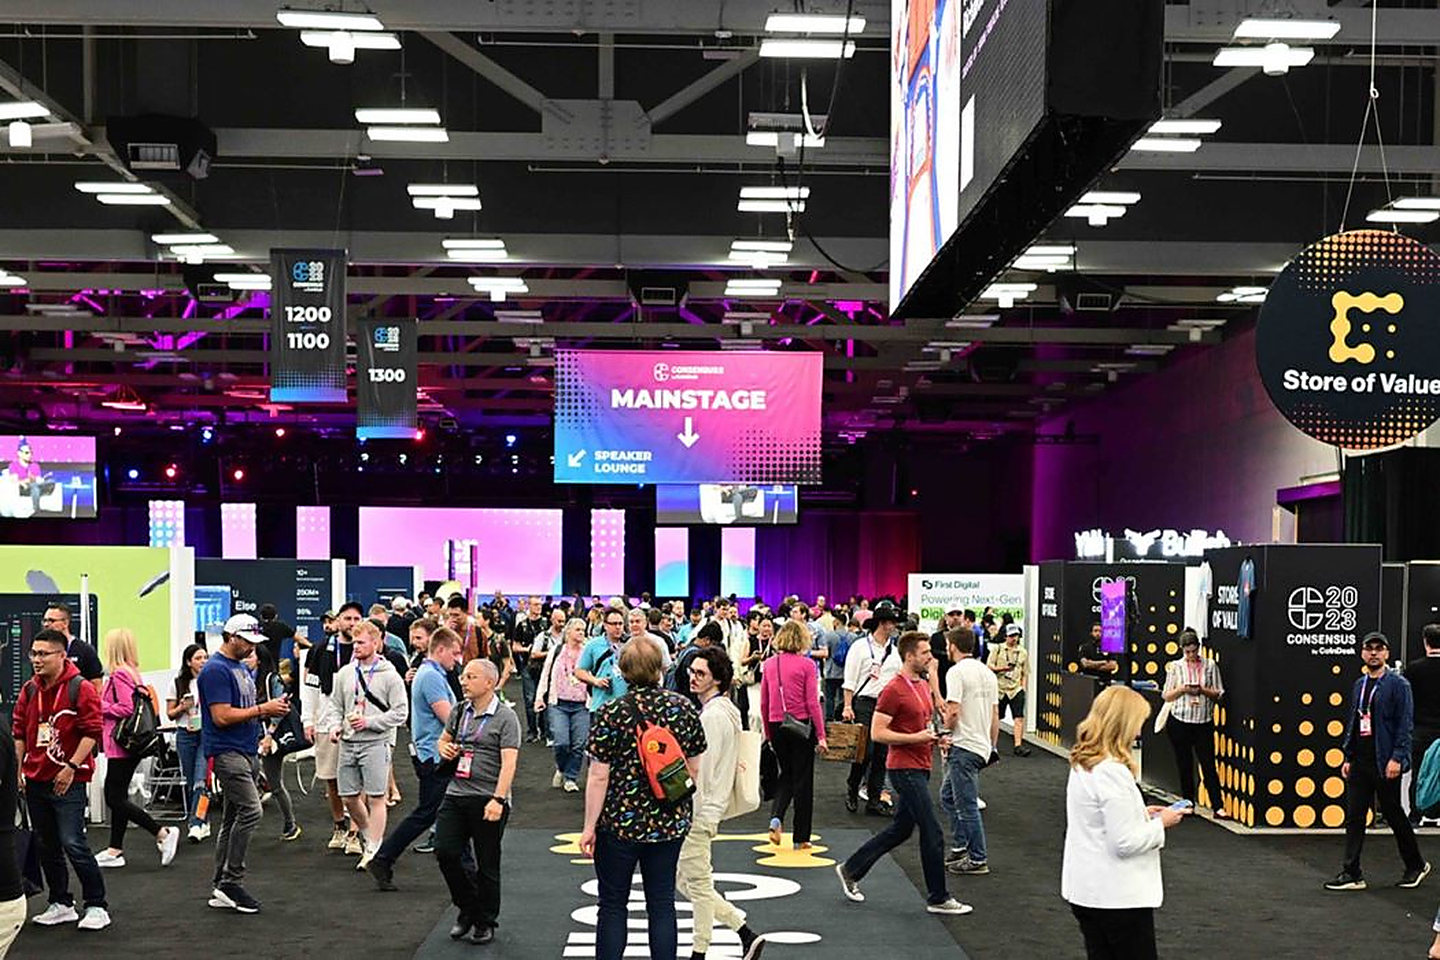
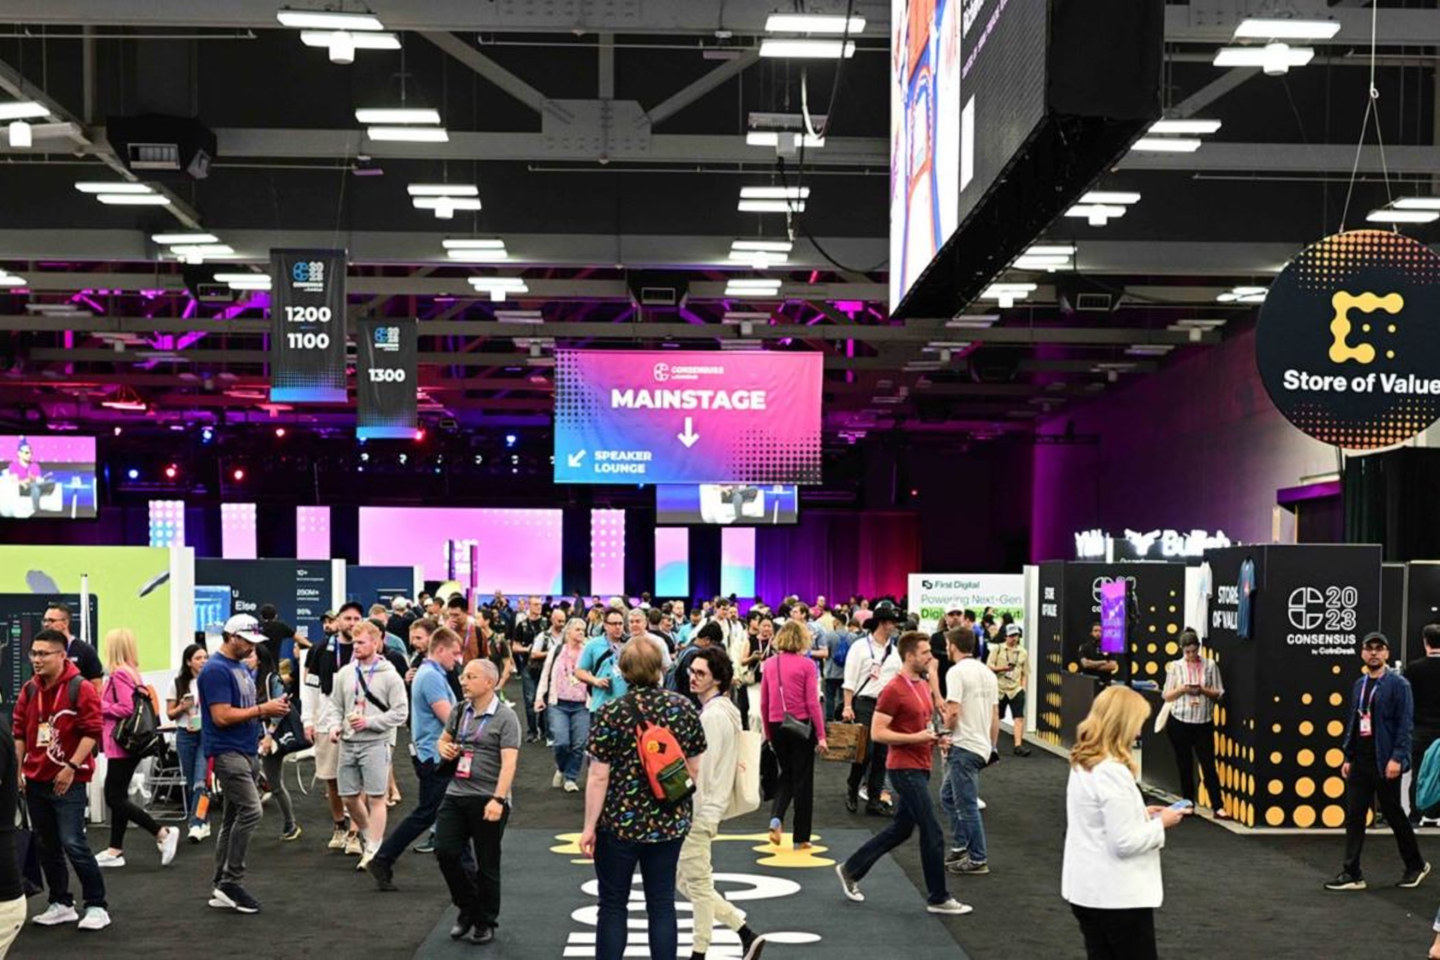
Eventos: la foto se reconstruye con EDSR y vuelve a pantalla completa
Prueba objetiva antes de elegir metodo: se reduce el original a la mitad, se
vuelve a ampliar con siete metodos y se compara cada resultado contra el
original verdadero.

  red neuronal EDSR                     PSNR 29.56  SSIM 0.9418
  lanczos                                    29.23       0.9363
  red neuronal LapSRN                        28.44       0.9249
  red neuronal ESPCN                         28.04       0.9225
  red neuronal FSRCNN                        28.12       0.9210
  por pasos + realce (lo que habia)          26.38       0.9158
  bilineal (lo que hacia el navegador)       26.71       0.9034

El metodo anterior salia PEOR que lanczos a secas. Se habia validado con una
metrica de definicion de borde, que subia porque el realce marca bordes, no
porque la imagen se pareciera mas al original. Metrica equivocada.

Ahora el master se reconstruye una vez con EDSR x4 (1050x700 -> 4200x2800,
por baldosas con solape) y los archivos servidos salen de reducir ese master,
que promedia y no inventa. Cuatro anchos: 1440, 2880, 4200 y un recorte
vertical de 1290x2795 para telefono.

Con detalle real en el archivo, la foto vuelve a pantalla completa. Medido,
lo que estira el navegador en vivo:
  escritorio 2x 1.04x · portatil 2x 0.83x · 2560 2x 1.27x
  iPhone 3x 0.94x · iPhone Max 3x 1.04x
Antes estiraba 2.74x y 3.62x.

WebP con respaldo JPEG. El master de 4200 pesa 427 KB en webp.

Claude-Session: https://claude.ai/code/session_012XH3DXuKTEfxWgn6TkaSoC

diff --git a/index.html b/index.html
@@ -2153,21 +2153,22 @@
 
 
   /* ============ eventos: la foto llega desde lejos ============
-     Formato editorial: texto a un lado, foto al otro.
+     Escena anclada: seccion alta, bloque fijo dentro y una sola variable de
+     scroll que gobierna escala, inclinacion, opacidad y velos.
 
-     El tamano de la foto NO es una decision estetica. El archivo de origen
-     mide 1050px de ancho; a sangre, una pantalla 2x pedia 2880px y el
-     navegador inventaba el 74% de lo que se veia. A ~690px de ancho la
-     ampliacion baja a 1.3x y la foto se lee definida. Si algun dia llega un
-     original de 4000px, subir el max-width de .ev-shot la devuelve a sangre
-     sin tocar nada mas.
+     La foto termina a sangre. Se puede porque el archivo ya trae 2880px de
+     ancho: se reconstruyo una vez, fuera del navegador, con una red de
+     super-resolucion (EDSR x4). El navegador ya no amplia nada.
 
-     La llegada desde lejos se conserva: la foto entra pequena y apagada
-     dentro de su columna y se abre hasta su tamano final. */
-  .ev{position:relative;height:300vh;background:#000}
+     Sin filter:blur para dar distancia. El desenfoque se calcula al tamano de
+     maquetacion de la foto y solo despues se escala, asi que en la fase
+     lejana el navegador desenfocaria una imagen enorme en cada fotograma. La
+     distancia la dan escala, inclinacion y un velo negro, que la GPU compone
+     sin repintar. */
+  .ev{position:relative;height:340vh;background:#000}
   .ev-pin{
     position:sticky;top:0;height:100vh;overflow:hidden;background:#000;
-    --s:.13;--o:0;--rx:9deg;--y:5vh;--r:120px;--velo:.62;--hud:0;--bar:0;
+    --s:.13;--o:0;--rx:9deg;--y:7vh;--r:180px;--kb:1;--velo:.62;--sombra:0;--hud:0;--bar:0;
   }
   .ev-rings{
     position:absolute;inset:-24%;z-index:0;pointer-events:none;
@@ -2178,34 +2179,58 @@
     animation:ringOut 6.4s linear infinite;
   }
 
-  .ev-wrap{
-    position:absolute;inset:0;z-index:3;padding:0 var(--pad);
-    display:flex;align-items:center;justify-content:center;
+  .ev-frame{
+    position:absolute;inset:0;z-index:2;margin:0;
+    transform:translateY(var(--y)) perspective(1500px) rotateX(var(--rx)) scale(var(--s));
+    opacity:var(--o);
+    border-radius:var(--r);overflow:hidden;
+    box-shadow:0 46px 130px rgba(0,0,0,.82), 0 0 0 1px rgba(255,255,255,.09);
+    will-change:transform,opacity;
   }
-  .ev-rejilla{
-    width:100%;max-width:1420px;
-    display:grid;grid-template-columns:minmax(0,.92fr) minmax(0,1fr);
-    align-items:center;gap:clamp(30px,4vw,72px);
+  .ev-frame picture{display:block;width:100%;height:100%}
+  .ev-frame img{
+    width:100%;height:100%;object-fit:cover;display:block;object-position:50% 44%;
+    transform:scale(var(--kb));transform-origin:52% 46%;   /* deriva lenta al final */
   }
-
-  .ev-col h2{max-width:14ch}
-  .ev-col .eyebrow{margin-bottom:22px}
-  .ev-col h2{
-    font-size:clamp(26px,3.2vw,44px);font-weight:200;line-height:1.14;
-    letter-spacing:-.022em;text-wrap:balance;
+  /* velo que se retira: de lejos la foto llega apagada, no borrosa */
+  .ev-veil{position:absolute;inset:0;z-index:3;pointer-events:none;background:#000;opacity:var(--velo)}
+  /* El titular y la barra caen sobre la foto, que ahi tiene focos y pantallas
+     encendidas. Va dentro del marco a proposito: fuera oscureceria tambien el
+     fondo negro de la escena. */
+  .ev-shade{
+    position:absolute;inset:0;z-index:1;pointer-events:none;opacity:var(--sombra);
+    background:
+      linear-gradient(90deg, rgba(0,0,0,.92) 0%, rgba(0,0,0,.70) 22%, rgba(0,0,0,.16) 46%, transparent 62%),
+      linear-gradient(180deg, rgba(0,0,0,.70) 0%, rgba(0,0,0,.14) 17%, transparent 34%,
+                              rgba(0,0,0,.40) 62%, rgba(0,0,0,.74) 86%, rgba(0,0,0,.82));
   }
-  .ev-entra{opacity:var(--hud);transform:translateY(calc((1 - var(--hud)) * 18px))}
-  .ev-tarde{opacity:var(--bar);transform:translateY(calc((1 - var(--bar)) * 18px))}
-
-  .ev-lede{
-    margin-top:clamp(20px,2.6vh,30px);max-width:46ch;
-    font-size:clamp(14px,1.08vw,16px);line-height:1.66;color:var(--ink-2);
+  .ev-cap{
+    position:absolute;right:0;top:0;z-index:4;margin:0;
+    padding:13px 18px;border-bottom-left-radius:14px;background:rgba(0,0,0,.70);
+    font-family:'IBM Plex Mono',monospace;font-size:9.5px;letter-spacing:.2em;
+    text-transform:uppercase;color:rgba(255,255,255,.72);opacity:var(--bar);
   }
-  .ev-meta{
-    margin-top:clamp(24px,3.4vh,40px);padding-top:clamp(18px,2.4vh,26px);
-    border-top:1px solid var(--hair);
-    display:flex;gap:clamp(22px,3vw,52px);flex-wrap:wrap;
+  .ev-hud{
+    position:absolute;left:var(--pad);top:clamp(88px,13vh,132px);z-index:5;
+    max-width:min(40ch,46vw);
+    opacity:var(--hud);transform:translateY(calc((1 - var(--hud)) * 20px));
   }
+  .ev-hud .eyebrow{margin-bottom:22px}
+  .ev-hud h2{
+    font-size:clamp(26px,3.3vw,44px);font-weight:200;line-height:1.14;
+    letter-spacing:-.022em;max-width:15ch;text-wrap:balance;
+  }
+  .ev-bar{
+    position:absolute;left:0;right:0;bottom:0;z-index:5;
+    padding:clamp(22px,4vh,44px) var(--pad) clamp(70px,10vh,104px);
+    background:linear-gradient(180deg,transparent,rgba(0,0,0,.44) 46%,rgba(0,0,0,.70));
+    border-top:1px solid rgba(255,255,255,.10);
+    opacity:var(--bar);transform:translateY(calc((1 - var(--bar)) * 28px));
+    display:flex;flex-wrap:wrap;gap:clamp(18px,3vw,56px);
+    align-items:flex-end;justify-content:space-between;
+  }
+  .ev-lede{max-width:54ch;font-size:clamp(13.5px,1.1vw,16px);line-height:1.64;color:var(--ink-2)}
+  .ev-meta{display:flex;gap:clamp(20px,3vw,48px);flex-wrap:wrap}
   .ev-meta div{display:flex;flex-direction:column;gap:8px}
   .ev-meta span{
     font-family:'IBM Plex Mono',monospace;font-size:9.5px;letter-spacing:.24em;
@@ -2214,50 +2239,34 @@
   .ev-meta b{font-size:clamp(14px,1.2vw,17px);font-weight:400;color:#fff;letter-spacing:-.01em}
   .ev-meta b.ok{color:#4ade4a}
 
-  .ev-shot{position:relative;justify-self:end;width:100%;max-width:820px}
-  .ev-col{min-width:0}
-  .ev-frame{
-    position:relative;margin:0;aspect-ratio:3/2;overflow:hidden;
-    transform:translateY(var(--y)) perspective(1500px) rotateX(var(--rx)) scale(var(--s));
-    opacity:var(--o);border-radius:var(--r);
-    box-shadow:0 40px 110px rgba(0,0,0,.82), 0 0 0 1px rgba(255,255,255,.10);
-    will-change:transform,opacity;
-  }
-  .ev-frame picture{display:block;width:100%;height:100%}
-  .ev-frame img{width:100%;height:100%;object-fit:cover;display:block;object-position:50% 46%}
-  /* velo que se retira: de lejos la foto llega apagada, no borrosa */
-  .ev-veil{position:absolute;inset:0;pointer-events:none;background:#000;opacity:var(--velo)}
-  .ev-cap{
-    margin-top:14px;font-family:'IBM Plex Mono',monospace;font-size:9.5px;
-    letter-spacing:.2em;text-transform:uppercase;color:var(--ink-3);
-    opacity:var(--bar);
-  }
-
-  @media (max-width:980px){
-    .ev-wrap{padding:0}
-    .ev-rejilla{grid-template-columns:1fr;align-content:center;gap:clamp(24px,4vh,38px)}
-    .ev-col{padding:0 var(--pad)}
-    .ev-col h2{max-width:18ch}
-    .ev-lede{max-width:none}
-    /* a lo ancho completo, sin margenes laterales: a 390px y pantalla 3x la
-       ampliacion queda en 1.1x, que es practicamente el archivo original */
-    .ev-shot{max-width:none;justify-self:stretch}
-    .ev-frame{border-radius:0;box-shadow:0 30px 70px rgba(0,0,0,.7)}
-    .ev-cap{padding:0 var(--pad)}
-    .ev-meta{gap:20px}
-    /* Apilado, el aviso de scroll cae sobre el pie de foto. Se apaga segun
-       sube la barra, con calc sobre la misma variable. */
-    #ev-cue{opacity:calc(1 - var(--bar))}
-  }
-  @media (max-width:520px){
-    .ev-meta{display:grid;grid-template-columns:repeat(3,1fr);gap:16px}
+  @media (max-width:860px){
+    .ev{height:300vh}
+    /* En vertical el titular cae SOBRE la foto: el velo oscurece arriba y
+       abajo, no un lado. */
+    .ev-shade{
+      background:linear-gradient(180deg, rgba(0,0,0,.86) 0%, rgba(0,0,0,.44) 21%,
+                                         rgba(0,0,0,.16) 40%, rgba(0,0,0,.60) 68%, rgba(0,0,0,.95));
+    }
+    /* el archivo vertical ya viene recortado: aqui no hay que reencuadrar */
+    .ev-frame img{object-position:50% 50%}
+    .ev-hud{max-width:none;right:var(--pad);top:clamp(80px,11vh,110px)}
+    .ev-bar{flex-direction:column;align-items:flex-start;gap:18px;
+            padding-bottom:clamp(78px,12vh,110px)}
+    /* tres columnas fijas: en fila suelta, "Sectora Foundation" empujaba a
+       los otros dos contra el margen */
+    .ev-meta{display:grid;grid-template-columns:repeat(3,1fr);gap:16px;width:100%}
+    .ev-meta div{gap:6px}
     .ev-meta span{font-size:8.5px;letter-spacing:.18em}
     .ev-meta b{font-size:clamp(12.5px,3.4vw,15px);line-height:1.28}
+    .ev-lede{font-size:14px;line-height:1.6}
+    /* Apilada, la barra ocupa justo donde vive el aviso de scroll. */
+    #ev-cue{opacity:calc(1 - var(--bar))}
+    .ev-cap{font-size:8.5px;letter-spacing:.16em;padding:11px 14px}
   }
   /* sin movimiento: la escena se queda en su estado final, legible de una vez */
   @media (prefers-reduced-motion:reduce){
     .ev{height:100vh}
-    .ev-pin{--s:1;--o:1;--rx:0deg;--y:0vh;--r:14px;--velo:0;--hud:1;--bar:1}
+    .ev-pin{--s:1;--o:1;--rx:0deg;--y:0vh;--r:0px;--kb:1;--velo:0;--sombra:1;--hud:1;--bar:1}
   }
 
   /* ============ equipo ============
@@ -4613,36 +4622,35 @@ body.nvp-abierto .ck{opacity:0;pointer-events:none;visibility:hidden}
   <div class="ev-pin">
     <div class="ev-rings" aria-hidden="true"></div>
 
-    <div class="ev-wrap">
-     <div class="ev-rejilla">
-      <div class="ev-col">
-        <p class="eyebrow mono ev-entra"><i></i>Events</p>
-        <h2 class="ev-entra">Sectora is going to Consensus.</h2>
-        <p class="ev-lede ev-tarde">Registration for Consensus 2027 is complete. The photograph is from an earlier edition of the conference, not the one we are attending.</p>
-        <div class="ev-meta ev-tarde">
-          <div><span>Status</span><b class="ok">Registered</b></div>
-          <div><span>Event</span><b>Consensus 2027</b></div>
-          <div><span>Attending</span><b>Sectora Foundation</b></div>
-        </div>
-      </div>
+    <figure class="ev-frame" id="ev-frame">
+      <picture>
+        <!-- En vertical el navegador recortaba al 31% del ancho. Aqui se
+             sirve ese mismo recorte ya hecho desde el master de 4200px. -->
+        <source media="(max-width:860px)" type="image/webp" srcset="images/consensus-mobile.webp">
+        <source media="(max-width:860px)" type="image/jpeg" srcset="images/consensus-mobile.jpg">
+        <source type="image/webp" srcset="images/consensus-1440.webp 1440w, images/consensus-2880.webp 2880w, images/consensus-4200.webp 4200w" sizes="100vw">
+        <img src="images/consensus-1440.jpg"
+             srcset="images/consensus-1440.jpg 1440w, images/consensus-2880.jpg 2880w, images/consensus-4200.jpg 4200w" sizes="100vw"
+             width="2880" height="1920" decoding="async" loading="lazy"
+             alt="Attendees walking across the show floor at a Consensus conference, between stands and overhead signage.">
+      </picture>
+      <span class="ev-shade" aria-hidden="true"></span>
+      <span class="ev-veil" aria-hidden="true"></span>
+      <figcaption class="ev-cap">Consensus show floor &middot; earlier edition</figcaption>
+    </figure>
 
-      <div class="ev-shot">
-        <figure class="ev-frame">
-          <picture>
-            <source type="image/webp"
-                    srcset="images/consensus-1440.webp 1440w, images/consensus-2880.webp 2880w"
-                    sizes="(max-width:980px) 100vw, min(820px, 48vw)">
-            <img src="images/consensus-1440.jpg"
-                 srcset="images/consensus-1440.jpg 1440w, images/consensus-2880.jpg 2880w"
-                 sizes="(max-width:980px) 100vw, min(820px, 48vw)"
-                 width="1440" height="960" decoding="async" loading="lazy"
-                 alt="Attendees walking across the show floor at a Consensus conference, between stands and overhead signage.">
-          </picture>
-          <span class="ev-veil" aria-hidden="true"></span>
-        </figure>
-        <p class="ev-cap">Consensus show floor &middot; earlier edition</p>
+    <div class="ev-hud" id="ev-hud">
+      <p class="eyebrow mono"><i></i>Events</p>
+      <h2>Sectora is going to Consensus.</h2>
+    </div>
+
+    <div class="ev-bar" id="ev-bar">
+      <p class="ev-lede">Registration for Consensus 2027 is complete. The photograph is from an earlier edition of the conference, not the one we are attending.</p>
+      <div class="ev-meta">
+        <div><span>Status</span><b class="ok">Registered</b></div>
+        <div><span>Event</span><b>Consensus 2027</b></div>
+        <div><span>Attending</span><b>Sectora Foundation</b></div>
       </div>
-     </div>
     </div>
 
     <div class="zoom-cue cue-zoom" id="ev-cue" aria-hidden="true">
@@ -5593,7 +5601,7 @@ window.SECT_DPR = () => Math.min(window.devicePixelRatio || 1,
    Una sola variable de scroll gobierna la escena. Las fases se solapan a
    proposito: el rotulo entra antes que la foto para que la seccion diga algo
    desde el primer instante, y la barra de datos sube cuando la foto ya esta
-   a tamano, no antes. */
+   a tamano. */
 (function(){
   const sec = document.getElementById('events');
   if(!sec) return;
@@ -5601,7 +5609,8 @@ window.SECT_DPR = () => Math.min(window.devicePixelRatio || 1,
   const cue = document.getElementById('ev-cue');
   if(!pin) return;
 
-  const reduce = matchMedia('(prefers-reduced-motion:reduce)').matches;
+  if(matchMedia('(prefers-reduced-motion:reduce)').matches) return;  // el CSS ya deja el estado final
+
   const lim   = v => v < 0 ? 0 : v > 1 ? 1 : v;
   const tramo = (p, a, b) => lim((p - a) / (b - a));
   const suave = t => t < .5 ? 4*t*t*t : 1 - Math.pow(-2*t + 2, 3) / 2;
@@ -5612,27 +5621,24 @@ window.SECT_DPR = () => Math.min(window.devicePixelRatio || 1,
     if(span <= 0) return;
     const p = lim(-r.top / span);
 
-    // llegada: escala, inclinacion y velo se mueven juntos
     const e = suave(tramo(p, .04, .58));
-    pin.style.setProperty('--s',  (0.13 + e*0.87).toFixed(4));
+    const esc = Math.max(0.05, 0.13 + e*0.87);
+    pin.style.setProperty('--s',  esc.toFixed(4));
     pin.style.setProperty('--o',  Math.min(1, e*1.5).toFixed(3));
     pin.style.setProperty('--rx', ((1-e)*9).toFixed(2) + 'deg');
-    pin.style.setProperty('--y',  ((1-e)*5).toFixed(2) + 'vh');
+    pin.style.setProperty('--y',  ((1-e)*7).toFixed(2) + 'vh');
     /* El radio se escala con el marco: para que las esquinas se vean siempre
-       igual de redondeadas hay que dividirlo por la escala. */
-    const esc = Math.max(0.05, 0.13 + e*0.87);
-    pin.style.setProperty('--r', Math.min(320, (4 + (1-e)*18)/esc).toFixed(1) + 'px');
-    pin.style.setProperty('--velo', ((1-e)*0.62).toFixed(3));
+       igual de redondeadas hay que dividirlo por la escala. Al llegar a
+       tamano completo baja a cero y la foto queda a sangre. */
+    pin.style.setProperty('--r',  Math.min(420, 24*(1-e)/esc).toFixed(1) + 'px');
+    pin.style.setProperty('--velo',   ((1-e)*0.62).toFixed(3));
+    pin.style.setProperty('--sombra', e.toFixed(3));
 
     pin.style.setProperty('--hud', suave(tramo(p, 0, .16)).toFixed(3));
-    pin.style.setProperty('--bar', suave(tramo(p, .54, .78)).toFixed(3));
+    pin.style.setProperty('--bar', suave(tramo(p, .58, .80)).toFixed(3));
+    pin.style.setProperty('--kb',  (1 + tramo(p, .58, 1)*0.055).toFixed(4));
 
     if(cue) cue.classList.toggle('off', p > .88);
-  }
-
-  if(reduce){
-    // el CSS ya deja la escena en su estado final; no hay nada que animar
-    return;
   }
 
   let pedido = false;
